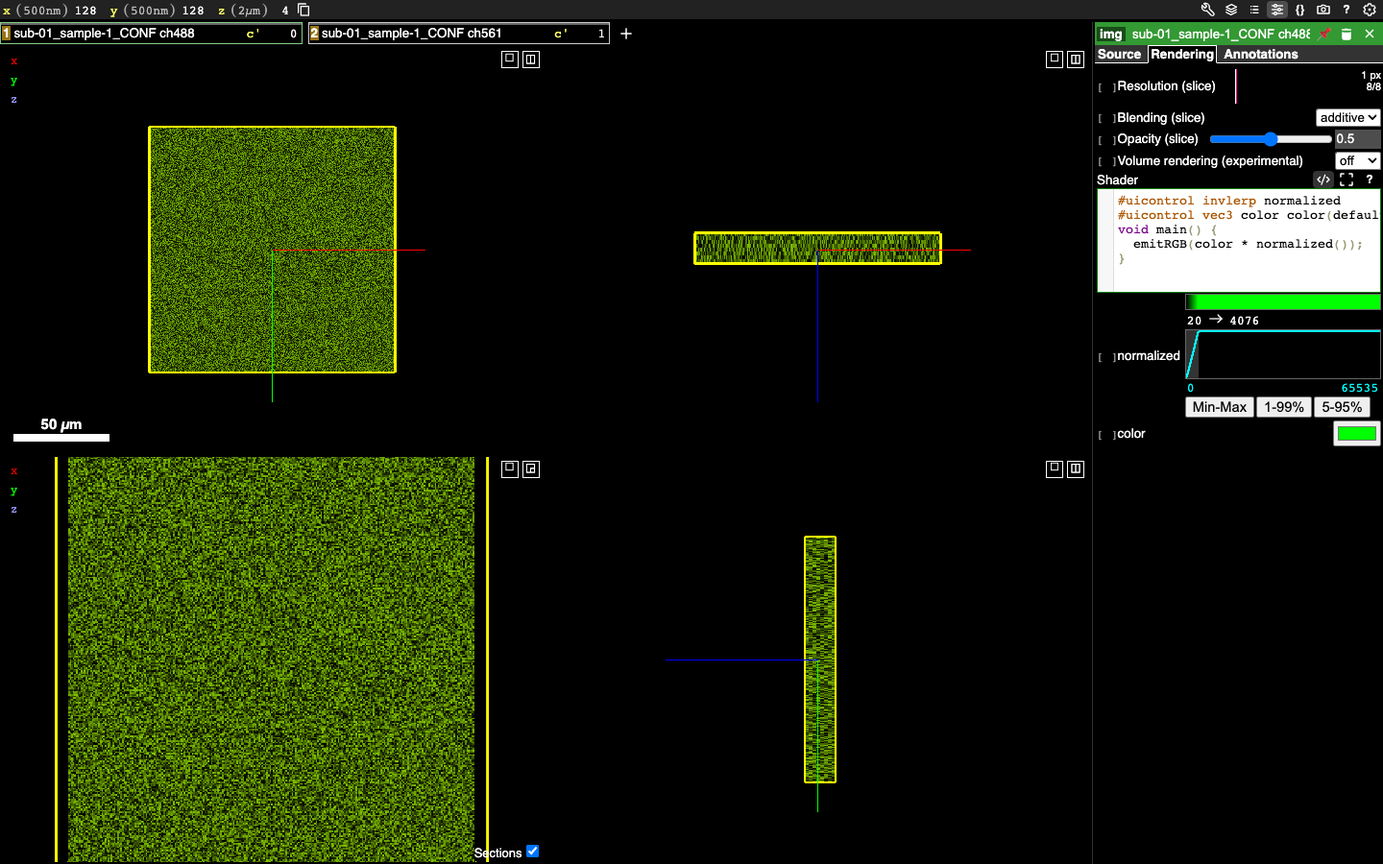
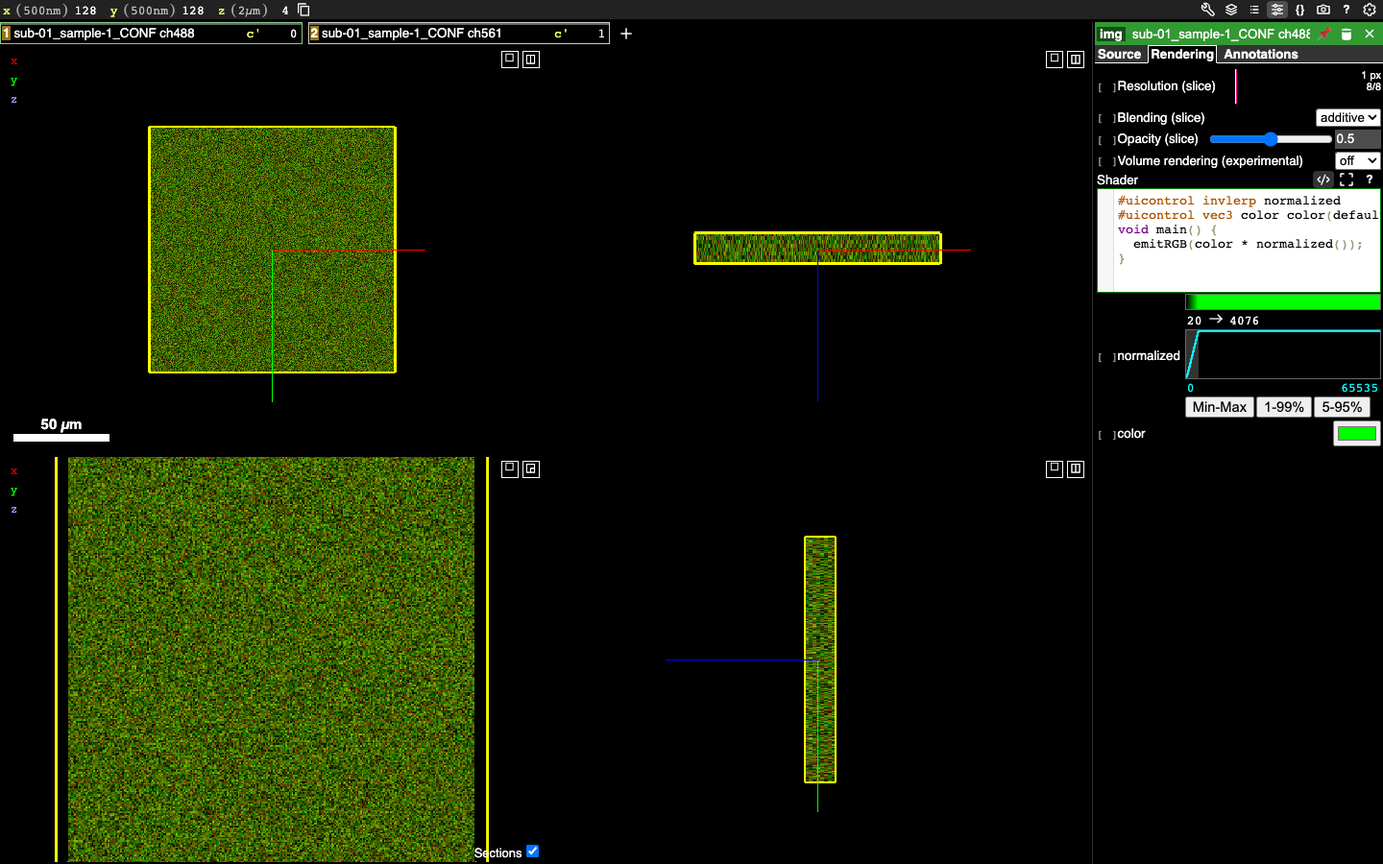
aimport micr: donor from the nearest folder, NaN-aware windows from the level nearest 1024, integer channel positions
Controller rulings on Task 10b: a remote donor is the nearest donor-like folder walking up (the VISoR tile under Moe/ is MN27 again; CMC slice001 contrasts stay one subject via Moe), the file name only when no folder is, never its format/vendor fragments (hdr, EnR, EnRef ...). A reference's display window: finite-value percentiles of the level whose largest x/y is closest to 1024 within the 32 MiB decoded cap; all-NaN/constant channels fall back to finer levels, else the written default. Found in the CMC re-render: Neuroglancer rounds a channel position, so i + 0.5 showed channel i + 1; positions are now integers (the committed micr screenshot is re-shot with both channels).

diff --git a/aimport/src/aimport/server.py b/aimport/src/aimport/server.py
@@ -93,8 +93,10 @@ VIEWER_COOKIE = "aimport_viewer_"  # + a random suffix per server run: cookies i
 VIEWER_CODE_TTL_S = 60
 # /qa/data for a referenced OME-Zarr chunk at a URL: the most bytes one proxied response may carry
 QA_MAX_RESPONSE_BYTES = 64 * 2**20
-# stored bytes read (through the chunk map) from a reference's coarsest level to compute a display window
+# decoded (and stored) bytes of the pyramid level read through the chunk map for a reference's display window
 QA_WINDOW_MAX_BYTES = 32 * 2**20
+# the level a reference's display window is computed from: largest x/y size closest to this, within the cap
+QA_WINDOW_TARGET_SIDE = 1024
 NO_SUCH_CHUNK = "no such chunk"
 _CONTENT_RANGE = re.compile(r"bytes (?:[0-9]+-[0-9]+/(?:[0-9]+|\*)|\*/[0-9]+)")
 # set explicitly: the Python mimetypes table varies by version and platform, and responses are nosniff
@@ -1211,8 +1213,6 @@ def create_app(input_dir: Path, work_dir: Path, keys_dir: Path, token: str, allo
         window stays."""
         import zarr
 
-        from .micr.convert import window_of
-
         root = srv.out / rel
         doc = _read_json(root / "zarr.json")
         attrs = (doc or {}).get("attributes") if doc and "attributes" in doc else _read_json(root / ".zattrs")
@@ -1235,18 +1235,56 @@ def create_app(input_dir: Path, work_dir: Path, keys_dir: Path, token: str, allo
             dtype = zarr.open_array(str(root / str(datasets[0]["path"])), mode="r").dtype
             had = source_windows(entry)
             if channels and all(_default_window(c.get("window"), dtype, had) for c in channels):
-                chunks = chunk_map() or {}
-                coarse = micr_reference.read_array(chunks, srv.out, f"{rel}/{datasets[-1]['path']}",
-                                                   srv.input_dir, QA_WINDOW_MAX_BYTES)
                 axes = [a.get("name") for a in multiscale.get("axes") or []]
-                for i, ch in enumerate(channels):
-                    values = coarse.take(i, axis=axes.index("c")) if "c" in axes else coarse
-                    ch["window"] = window_of(values, dtype)
+                windows = reference_windows(rel, [str(d["path"]) for d in datasets], axes, dtype, len(channels))
+                for ch, window in zip(channels, windows):
+                    if window is not None:  # else the written default stays
+                        ch["window"] = window
         except Exception:  # noqa: BLE001 - the written window is a fine fallback; nothing is reported
             log.info("display window of a reference not computed")
             return attrs  # not cached: the next view tries again
         window_cache[key] = attrs
         return attrs
+
+    def reference_windows(rel: str, paths: list[str], axes: list, dtype: Any, n: int) -> list[dict | None]:
+        """Per channel, the 0.5/99.5 percentiles of the finite values (NaN and ±inf ignored) of the pyramid level
+        whose largest x/y size is closest to QA_WINDOW_TARGET_SIDE among those whose decoded size fits
+        QA_WINDOW_MAX_BYTES (so a coarser one when a finer does not fit); a channel that is all NaN or constant
+        there is taken from the next finer level that fits, else None (the written default stays). Read errors
+        propagate (the caller does not cache them)."""
+        from .micr.convert import window_or_none
+
+        chunks = chunk_map() or {}
+        xy = [axes.index(a) for a in ("x", "y") if a in axes]
+        fits: list[tuple[int, int]] = []  # (level, largest x/y size) of the levels within the cap
+        for i, path in enumerate(paths):
+            meta = (chunks.get("arrays") or {}).get(f"{rel}/{path}")
+            level = srv.out / rel / path
+            doc = _read_json(level / "zarr.json") or _read_json(level / ".zarray")
+            if not isinstance(meta, dict) or not isinstance(doc, dict):
+                continue
+            try:
+                size = micr_reference._decoded_bytes(meta, doc, len(list(micr_reference.chunk_keys(meta))))
+            except (ValueError, KeyError, TypeError):
+                continue
+            if size <= QA_WINDOW_MAX_BYTES:
+                fits.append((i, max((int(meta["shape"][k]) for k in xy), default=0)))
+        if not fits:
+            return [None] * n
+        start = min(fits, key=lambda f: (abs(f[1] - QA_WINDOW_TARGET_SIDE), -f[0]))[0]
+        order = [i for i, _ in sorted(fits, reverse=True) if i <= start]  # the start level, then finer ones
+        read: dict[int, Any] = {}
+        out: list[dict | None] = [None] * n
+        for k in range(n):
+            for i in order:
+                if i not in read:
+                    read[i] = micr_reference.read_array(chunks, srv.out, f"{rel}/{paths[i]}", srv.input_dir,
+                                                        QA_WINDOW_MAX_BYTES)
+                values = read[i].take(k, axis=axes.index("c")) if "c" in axes else read[i]
+                out[k] = window_or_none(values, dtype)
+                if out[k] is not None:
+                    break
+        return out
 
     def source_windows(entry: Any) -> bool | None:
         """Whether a reference entry's source had an omero window per channel (its scan record), or None."""

diff --git a/aimport/tests/test_micr_plan.py b/aimport/tests/test_micr_plan.py
@@ -344,12 +344,9 @@ def test_remote_donor_from_name_tail_psoct(url):
     "https://s3.us-east-2.amazonaws.com/apex-connects/CMC/Raw/Moe/tract-tracing/MN27_FH_S100_250215_visor_488/"
     "visor_488_Pos0/visor_488_0_0.tif",
 ])
-def test_remote_donor_from_first_folder(url):
-    """The first donor-like folder from the top wins: the tract-tracing acquisition MN27_... lies under
-    the donor folder Moe."""
-    assert micr_module.remote_donor(micr_module.remote_key(url)) == "Moe"
-    assert micr_module.remote_donor("CMC/Raw/tract-tracing/MN27_FH_S100_250215_visor_488/visor_488_Pos0/"
-                                    "visor_488_0_0.tif") == "MN27"
+def test_remote_donor_from_nearest_folder(url):
+    """The nearest donor-like folder wins: MN27_... (under Moe/)."""
+    assert micr_module.remote_donor(micr_module.remote_key(url)) == "MN27"
 
 
 _ENFACE_CODES = {"Reflectivity": "EnRef", "Retardance": "EnR"}  # the real CMC key names (DATASETS.md)
@@ -361,16 +358,22 @@ def ENFACE(contrast: str, n: int) -> str:  # noqa: N802
 
 
 def test_remote_donor_walks_every_folder():
-    """Five folders up from the file: the donor folder Moe is found (it was 3 at most) before the file
-    name's contrast codes (EnR, hdr); the top folder (the project) and the bucket never are."""
+    """Folders first, nearest to the file walking up, every folder up to (not including) the top one: the donor
+    folder Moe is found six levels up (it was 3 at most). The file name is used only when no folder is
+    donor-like, and its format/vendor fragments (hdr, EnR, EnRef ...) never are donors."""
     for contrast in ("Reflectivity", "Retardance"):
         assert micr_module.remote_donor(micr_module.remote_key(ENFACE(contrast, 1))) == "Moe"
-    assert micr_module.remote_donor("CMC/Registration/Slice_001_EnR_hdr.nii.gz") == "EnR"  # no folder: the name
+    for name in ("Slice_001_EnR_hdr.nii.gz", "Slice_001_EnRef_hdr.nii.gz", "Slice_004_EnCr_hdr.nii",
+                 "Slice_001_EnAO_hdr.nii.gz"):
+        assert micr_module.remote_donor(f"CMC/Registration/{name}") is None, name
+    assert micr_module.remote_donor("CMC/Registration/H17_Slice_001_EnR_hdr.nii.gz") == "H17"
     path_style = "https://s3.us-east-2.amazonaws.com/apex-connects/CMC/Derivatives/stitched/data/image.ome.zarr"
     assert micr_module.remote_key(path_style) == "CMC/Derivatives/stitched/data/image.ome.zarr"
     assert micr_module.remote_donor(micr_module.remote_key(path_style)) is None
-    assert micr_module.remote_donor("CMC/Raw/Moe/Registration/Enface/data/images/MN27_x/tile_0.tif") == "Moe"  # the first wins
+    assert micr_module.remote_donor("CMC/Raw/Moe/Registration/Enface/data/images/MN27_x/tile_0.tif") == "MN27"
+    assert micr_module.remote_donor("CMC/Raw/Moe/Registration/Enface/data/images/tile_0.tif") == "Moe"
     assert micr_module.remote_donor("Moe/image.tif") is None  # the top folder alone
+    assert micr_module.remote_donor("axonal_connectomics/deskewed/H17_PO10_S5_20250417/exaSPIM.zarr/Pos0") == "H17"
 
 
 def _remote_plan(tmp_path, key, schema, monkeypatch, urls):
@@ -412,10 +415,10 @@ def test_remote_records_never_take_bucket_or_project_as_donor(tmp_path, key, sch
     found = [micr_module.Found(u, f, u) for u, f in zip(urls, families)]
     records = micr_module.scan_records(tmp_path, claim, found, lambda msg: None)
     donors = [r["facts"]["donor"] for r in records]
-    assert sorted(d for d in donors if d) == ["Moe", "Moe"] and donors.count(None) == 1  # MN27_ is under Moe/
+    assert sorted(d for d in donors if d) == ["MN27", "Moe"] and donors.count(None) == 1
     mp = micr_module.plan_entries(records, key, set(), schema, "bids")
-    assert "micr:id=Moe" in set(key.subjects)
-    assert not [o for o in key.subjects if o.startswith("micr:id=") and o != "micr:id=Moe"]
+    assert {"micr:id=Moe", "micr:id=MN27"} <= set(key.subjects)
+    assert not [o for o in key.subjects if o.startswith("micr:id=") and o not in ("micr:id=Moe", "micr:id=MN27")]
     assert any(w.startswith("microscopy: no donor code was found for 1 ") for w in mp.warnings)
     text = json.dumps([asdict(e) for e in mp.entries] + mp.warnings)
     assert "apex" not in text and "amazonaws" not in text and "CMC" not in text

diff --git a/aimport/tests/test_viewer_routes.py b/aimport/tests/test_viewer_routes.py
@@ -1014,3 +1014,55 @@ def test_real_omero_window_kept_by_the_viewer(tmp_path, monkeypatch):
         assert rec["info"]["reference_layout"]["source_windows"] is True
         ref = next(e for e in _entries(c).values() if e["write_mode"] == "reference")
         assert _ref_window(viewer_client(c), ref["id"]) == (0.0, 1.0)
+
+
+def test_reference_window_level_and_nan(tmp_path, monkeypatch):
+    """The window comes from the level whose largest x/y is closest to the target within the cap, NaN ignored;
+    a channel that is all NaN there comes from the next finer level that fits, else keeps the written default."""
+    import numpy as np
+    import zarr
+
+    from aimport.micr.convert import window_of
+
+    inp = tmp_path / "in"
+    store = ome_zarr(inp / STORE, "0.5", levels=4, dtype="float32")  # x/y 64, 32, 16, 8
+    level1 = zarr.open_array(str(store / "1"), mode="r+")
+    level1[1] = np.nan  # channel 1 is all NaN at level 1
+    level1[0, 0, 0, :4] = [np.inf, -np.inf, np.nan, np.nan]
+    monkeypatch.setattr(server, "QA_WINDOW_TARGET_SIDE", 30)  # level 1 (32) is the closest
+    real = server.micr_reference.read_array
+    reads = []
+
+    def spy(chunks, bids, array_rel, *a, **k):
+        reads.append(array_rel.rsplit("/", 1)[1])
+        return real(chunks, bids, array_rel, *a, **k)
+
+    monkeypatch.setattr(server.micr_reference, "read_array", spy)
+    with _executed_micr(inp, tmp_path, monkeypatch) as c:
+        browser = viewer_client(c)
+        ref = next(e for e in _entries(c).values() if e["write_mode"] == "reference")
+
+        def windows():
+            loc = browser.get(f"/viewer/entry/{ref['id']}", follow_redirects=False).headers["location"]
+            return [tuple(layer["shaderControls"]["normalized"]["range"]) for layer in decoded_state(loc)["layers"]]
+
+        w = windows()
+        want0 = window_of(zarr.open_array(str(store / "1"), mode="r")[0], "float32")
+        want1 = window_of(zarr.open_array(str(store / "0"), mode="r")[1], "float32")
+        assert reads == ["1", "0"]
+        assert w[0] == pytest.approx((want0["start"], want0["end"]))
+        assert w[1] == pytest.approx((want1["start"], want1["end"]))
+        # level 0 past the cap: channel 1 keeps the written default (0..1); level 1 is still used for channel 0
+        monkeypatch.setattr(server, "QA_WINDOW_MAX_BYTES", 100_000)
+        state = c.app.state.server.work / server.OUTPUT_STATE
+        later = state.stat().st_mtime_ns + 2_000_000_000
+        os.utime(state, ns=(later, later))
+        reads.clear()
+        w = windows()
+        assert reads == ["1"] and w[1] == (0.0, 1.0) and w[0] == pytest.approx((want0["start"], want0["end"]))
+        # the target past every level that fits: the closest that fits (a coarser one) is used
+        monkeypatch.setattr(server, "QA_WINDOW_TARGET_SIDE", 1024)
+        os.utime(state, ns=(later + 2_000_000_000,) * 2)
+        reads.clear()
+        windows()
+        assert reads[0] == "1"

diff --git a/aimport/src/aimport/micr/module.py b/aimport/src/aimport/micr/module.py
@@ -231,22 +231,40 @@ def remote_key(url: str) -> str:
     return path
 
 
+# File-name fragments that are never a donor: format and vendor words (a header suffix, an extension word) and
+# the PS-OCT en-face contrast abbreviations En<X> (EnR, EnRef, EnCr, EnAO ...).
+_NAME_NOT_DONOR = frozenset({"hdr", "img", "nii", "gz", "tif", "tiff", "zarr", "ome", "dat", "mat", "raw", "bin",
+                             "h5", "hdf5", "json", "txt", "log", "png", "jpg", "jpeg", "bmp", "avi", "lsm",
+                             "oib", "oif", "ims", "czi", "nd2", "lif", "svs", "vsi", "ndpi", "scn", "mrxs"})
+_EN_CONTRAST = re.compile(r"En[A-Z][A-Za-z]{0,3}")
+
+
+def _name_donor(name: str) -> str | None:
+    """The donor of a file or store name (names.facts), its format/vendor fragments removed first."""
+    stem = names._EXT.sub("", name)
+    keep = [t for t in names._tokens(stem)
+            if t.lower() not in _NAME_NOT_DONOR and not _EN_CONTRAST.fullmatch(t)]
+    return names.facts("_".join(keep)).donor if keep else None
+
+
 def remote_donor(path: str) -> str | None:
-    """The donor of a remote source (``path``: its object key, ``remote_key``): the first donor-like
-    segment walking down every folder from the top (``CMC/Derivatives/Moe/PS-OCT/...`` gives Moe), else
-    the file or store name; names.facts applied to each segment alone. The top folder under the
-    bucket is a project (``CMC/...``), never a donor. Folders come first because file names carry
-    contrast codes that look like donors (``Slice_001_EnR_hdr``: EnR, hdr)."""
+    """The donor of a remote source (``path``: its object key, ``remote_key``): the nearest donor-like folder,
+    walking up from the file (``CMC/Raw/Moe/tract-tracing/MN27_.../Pos0/x.tif`` gives MN27,
+    ``CMC/Derivatives/Moe/PS-OCT/Enface/Registration/Retardance/x.nii.gz`` gives Moe); the file or store name
+    only when no folder is donor-like, and never its format/vendor fragments (``hdr``, ``EnR``). The top folder
+    under the bucket is a project (``CMC/...``), never a donor. names.facts is applied to each segment alone."""
     parts = [p for p in path.split("/") if p]
     if not parts:
         return None
-    for seg in [*parts[1:-1], parts[-1]]:
+    for seg in reversed(parts[1:-1]):
         if seg.startswith("sub-") and len(seg) > 4:
             return seg[4:]
         donor = names.facts(seg).donor
         if donor:
             return donor
-    return None
+    if parts[-1].startswith("sub-") and len(parts[-1]) > 4:
+        return parts[-1][4:].split("_")[0]
+    return _name_donor(parts[-1])
 
 
 def _remote_group(rec: dict) -> str:

diff --git a/aimport/tests/test_viewer.py b/aimport/tests/test_viewer.py
@@ -110,7 +110,7 @@ def test_zarr_layer_channels_additive(version, codec):
     for i, layer in enumerate(layers):
         assert layer["type"] == "image" and layer["source"] == url + codec
         assert layer["blend"] == "additive"
-        assert layer["localDimensions"] == {"c'": [1, ""]} and layer["localPosition"] == [i + 0.5]
+        assert layer["localDimensions"] == {"c'": [1, ""]} and layer["localPosition"] == [i]  # integer: Neuroglancer rounds
     assert layers[0]["shaderControls"]["normalized"]["range"] == [100.0, 900.0]
     assert layers[1]["shaderControls"]["normalized"]["range"] == [50.0, 400.0]
     assert layers[0]["shaderControls"]["color"] == "#00ff00"  # 520 nm emission: the omero colour
@@ -199,7 +199,7 @@ def test_multichannel_oct_store_split_into_panels():
     assert len(state["layers"]) == 2 and all("blend" not in layer for layer in state["layers"])
     assert all("emitGrayscale" in layer["shader"] for layer in state["layers"])
     assert [p["layers"] for p in state["layout"]["children"]] == [[layer["name"]] for layer in state["layers"]]
-    assert [layer["localPosition"] for layer in state["layers"]] == [[0.5], [1.5]]
+    assert [layer["localPosition"] for layer in state["layers"]] == [[0], [1]]
 
 
 def test_view_fits_the_plane():

diff --git a/aimport/src/aimport/micr/convert.py b/aimport/src/aimport/micr/convert.py
@@ -432,6 +432,16 @@ def window_of(values: Any, dtype: Any) -> dict[str, float]:
     return {"min": mn, "max": mx, "start": lo, "end": hi if hi > lo else lo + 1.0}
 
 
+def window_or_none(values: Any, dtype: Any) -> dict[str, float] | None:
+    """window_of when the values hold at least two different finite numbers (NaN and ±inf ignored); None for
+    an all-NaN or constant channel (the caller tries another level, or keeps its default)."""
+    sample = np.asarray(values, dtype=np.float64).ravel()
+    sample = sample[np.isfinite(sample)]
+    if sample.size == 0 or sample.min() == sample.max():
+        return None
+    return window_of(sample, dtype)
+
+
 # --- tile groups --------------------------------------------------------------------------------
 
 

diff --git a/aimport/src/aimport/viewer.py b/aimport/src/aimport/viewer.py
@@ -128,7 +128,9 @@ def zarr_layer(name: str, url: str, info: dict, version: str, blend: bool = True
             layer["blend"] = "additive"
         if has_c:
             layer["localDimensions"] = {"c'": [1, ""]}
-            layer["localPosition"] = [i + 0.5]
+            # an integer: Neuroglancer rounds a channel position, so i + 0.5 would show channel i + 1 (checked in
+            # Chromium on the 4-channel CMC PS-OCT store: i + 0.5 drew the next contrast, the last one blank)
+            layer["localPosition"] = [i]
         if controls:
             layer["shaderControls"] = controls
         layers.append(layer)

diff --git a/aimport/README.md b/aimport/README.md
@@ -211,7 +211,10 @@ the written omero window. The PS-OCT contrasts of one sample (reflectivity, reta
 together, each in its own xy panel and never blended; so do the channels of a PS-OCT store whose channels are the
 contrasts. A reference dataset ("(read from source)") was never copied: its metadata is the one aimport wrote, and
 each chunk is read from its source through the chunk map (below). When its source had no display window, the
-viewer uses the 0.5/99.5 percentiles of its coarsest level, read through the chunk map (at most 32 MiB).
+viewer uses the 0.5/99.5 percentiles of the finite values (NaN and ±inf ignored) of the pyramid level whose largest
+x/y size is closest to 1024 among those whose decoded size fits 32 MiB, read through the chunk map; a channel that
+is all NaN or constant there comes from the next finer level that fits, else keeps the written default. Each
+channel is selected by its integer index (Neuroglancer rounds a channel position).
 
 ![A converted microscopy image (the planted test OME-TIFF) in the viewer](docs/qa-viewer-micr.png)
 
@@ -373,7 +376,7 @@ image) are better dropped in review; the validation result tells you which.
 - Microscopy (`micr`) packages, locked for Python 3.11 (the image): bioio 3.7.1, bioio-czi 4.1.0 (aicspylibczi), bioio-nd2 2.5.0, bioio-lif 2.0.1, tifffile 2026.3.3, ome-types 0.7.0, zarr 3.1.6, fsspec[http] 2026.9.0, dask[array] 2026.11.0, ngff-zarr 0.53.0, scipy 1.17.1, h5py 3.16.0. All have wheels for manylinux x86_64 and macOS arm64.
 - OME-Zarr output is NGFF **0.5** (Zarr v3, sharded) by default; set `AIMPORT_NGFF_VERSION=0.4` for Zarr v2. The validator ruling behind the default (Task 1, `tests/test_micr_validator.py`): `@bids/validator` 2.4.1 on schema 1.11.2 accepts NGFF 0.5, NGFF 0.4 and metadata-only stores (chunks deleted). It treats a `.ome.zarr/` directory as opaque: it rejects only an empty directory (`EMPTY_FILE`) and never reads `zarr.json`/`.zattrs` (a corrupt `zarr.json` passes, and sidecar `PixelSize` is not compared with the NGFF scale), so aimport checks its own OME-Zarr metadata.
 - Remote microscopy sources (`micr/remote.py`): only `https://` and `s3://` URLs (`s3://b/k` is read as `https://b.s3.amazonaws.com/k`), anonymous, with no user information, query, IP-literal or `localhost` host; redirects are followed only to the same origin or an `https` `*.amazonaws.com` host. Discovery probes `<url>/zarr.json`, then `<url>/.zattrs`, then the extension or `Content-Type`; only OME-Zarr, NIfTI and TIFF are accepted. Every read is an HTTP range request counted by a `ByteCounter` (which can cap it): an OME-Zarr store is read through zarr (metadata and the chunks asked for), a file through 64 KiB blocks, and nothing is downloaded whole. Counting the pages of a remote multi-page TIFF walks its IFD chain (one range read per page).
-- Microscopy plan entries (`micr/module.py`): the scan writes `work/micr/records.json` (local only, like `claim.json`: paths, URLs, name facts and image facts, acquisition date included), one record per image or tile group (VISoR and numbered tiles of one folder share one, raw PS-OCT `.dat` tiles one per folder). Plan entries carry only generated values: `subject_idx`/`series_idx` from 1,000,000 up, subject IDs from the pseudonym key (original `micr:id=<donor>`), samples `slice<NNN>`, the input's `sample-` label or `1, 2, ...`, `acq-<PS-OCT contrast>`, `stain-ch<nm>`, `chunk-<position or tile>` when a sample has several, a suffix from names (`OCT`, `SPIM`) or the OME acquisition mode, and a description built from the image facts. `write_mode` is `reference` for OME-Zarr (no copy, `output_bytes` 0) and `convert` otherwise (`output_bytes` = level 0 x 1.34). A remote source's donor is the first donor-like folder walking down from the top of its key (`CMC/Derivatives/Moe/PS-OCT/...` gives `Moe`), else its file or store name (file names carry contrast codes such as `EnR`), never the bucket or the top folder under it (a project); remote sources without a donor share a subject when they sit under the same parent folder (contrast folders such as `Reflectivity/` skipped) with the same slice. A remote VISoR tile is planned from its first page and `frames_per_file`. Module planners run after the MRI subjects took their IDs, so MRI subject IDs and session labels are those of an MRI-only plan. Microscopy entries stay `micr` (another datatype makes them unknown, as does `micr` on an MRI entry); `sample_type` (default `tissue`) is editable within the BIDS enum. A microscopy-only scan has no DICOM-header warning; a supplementary folder (such as `sourcedata/`) holding claimed input is left out with a warning giving the count.
+- Microscopy plan entries (`micr/module.py`): the scan writes `work/micr/records.json` (local only, like `claim.json`: paths, URLs, name facts and image facts, acquisition date included), one record per image or tile group (VISoR and numbered tiles of one folder share one, raw PS-OCT `.dat` tiles one per folder). Plan entries carry only generated values: `subject_idx`/`series_idx` from 1,000,000 up, subject IDs from the pseudonym key (original `micr:id=<donor>`), samples `slice<NNN>`, the input's `sample-` label or `1, 2, ...`, `acq-<PS-OCT contrast>`, `stain-ch<nm>`, `chunk-<position or tile>` when a sample has several, a suffix from names (`OCT`, `SPIM`) or the OME acquisition mode, and a description built from the image facts. `write_mode` is `reference` for OME-Zarr (no copy, `output_bytes` 0) and `convert` otherwise (`output_bytes` = level 0 x 1.34). A remote source's donor is the nearest donor-like folder walking up from the file (`CMC/Raw/Moe/tract-tracing/MN27_.../` gives `MN27`, `CMC/Derivatives/Moe/PS-OCT/Enface/...` gives `Moe`), else its file or store name without its format/vendor fragments (`hdr`, the en-face codes `EnR`, `EnRef`, ...), never the bucket or the top folder under it (a project); remote sources without a donor share a subject when they sit under the same parent folder (contrast folders such as `Reflectivity/` skipped) with the same slice. A remote VISoR tile is planned from its first page and `frames_per_file`. Module planners run after the MRI subjects took their IDs, so MRI subject IDs and session labels are those of an MRI-only plan. Microscopy entries stay `micr` (another datatype makes them unknown, as does `micr` on an MRI entry); `sample_type` (default `tissue`) is editable within the BIDS enum. A microscopy-only scan has no DICOM-header warning; a supplementary folder (such as `sourcedata/`) holding claimed input is left out with a warning giving the count.
 - Microscopy conversion (`micr/convert.py`, `micr/metadata.py`): each included `convert` entry becomes `sub-<s>[/ses-<s>]/micr/<name>.ome.zarr` plus its sidecar. Pixels are read block by block (a block never larger than `MAX_BLOCK_BYTES`, 256 MiB, read at call time) and a whole array is never in memory. Level 0 is written in slabs along the slowest spatial axis, full extent on the others and one shard deep, in order, so each source block (strip, plane stack) is read once (the last one is kept for the next slab); when such a slab does not fit half the block limit, the shard gets thinner along that axis (chunks down to an eighth of the default) if that makes it fit, else the slabs are as deep as fits and cut through shards, which zarr completes by read-merge-rewrite one shard at a time; only a single slice larger than half the limit falls back to shard-by-shard writing. Remote files are read with a 4 KiB read-ahead while converting. Level k of the pyramid is the 2x box mean of level k-1 as written (exact integer arithmetic, majority vote for booleans; y and x every level, z only while its pixels are not coarser than the plane), down to the level whose largest in-plane (y, x) axis is at most 256 (a 1024² plane gets 3 levels), or 8 levels. ngff-zarr creates each level's array (metadata only); chunks are `(1, 128, 128, 128)` (3D) or `(1, 1024, 1024)` (2D) with 4 chunks per spatial axis per shard (0.5), fewer per shard (z first) when a shard would exceed half the block limit. The group metadata is then rebuilt from the allowlisted image facts only (`ngff_attrs`: axes, scale per level, an `omero` channel `ch<nm>`/`ch<i>` per channel with the coarsest level's 0.5/99.5 percentile window; no name, OME-XML or library metadata), and the array attributes are emptied. **Pixel size is never invented, and its unit never assumed:** plan entries carry `pixel_size` (x, y[, z]) and `pixel_size_units` (`mm`, `um`, `nm`) from the source; when the source lacks any spatial axis the entry is `unknown` ("pixel size unknown: set it in the plan") until the reviewer sets both, and when the source has sizes but no unit (NGFF axes without a `unit`, like the CMC PS-OCT store) it is `unknown` ("pixel size unit unknown: set it in the plan") until the reviewer sets `pixel_size_units` (editable on microscopy entries only, positive finite numbers, one per spatial axis), and the writer refuses an entry without them. The sidecar holds that `PixelSize`/`PixelSizeUnits`, `Magnification`, `NumericalAperture` and `Immersion` when known, and for `OCT` `OCTContrast`, `OCTRetardanceKind` and `OCTOpticAxisConvention` (`n/a`). Several files that are tiles of one plane (not VISoR frame stacks) are planned `unsupported` ("tile mosaic: stitch first ..."); VISoR tiles of one position are stacked along z. After each image aimport re-opens it (zarr and ngff-zarr, NGFF structural rules) and checks the group metadata for the configured version, the axes and units, level 0's scale against the sidecar `PixelSize`, each level's shape and dtype, and the omero channel count; a failure fails the execute with a generic message. The writer adds a participants row (`n/a` age and sex; MRI demographics win; the `sex` description says when it is not from DICOM), `samples.tsv` (`sample_id`, `participant_id`, `sample_type`; merged with a supplied one by participant and sample, supplied values winning) and `scans.tsv` rows whose `acq_time` is the image's acquisition date (else the date in its name) shifted by the subject's offset, date only (`T00:00:00`, described in `scans.json` as "date only for microscopy images; time not recorded"). A BIDS-named input's own suffix and entity keys (`sub-01_sample-A_CONF`) are vocabulary, not identifying terms; its `sample-`/`sub-`/`ses-` labels are used only when they are not terms. A reference (below) is checked the same way, from its metadata only.
 - Microscopy reference datasets (`micr/reference.py`): an OME-Zarr input (`write_mode` `reference`) is never copied or converted. Under `bids/` aimport writes only new metadata: the group attributes rebuilt by `ngff_attrs` in the **source's** Zarr format (v3 → NGFF 0.5, v2 → 0.4; the chunks are not re-encoded), with the plan's pixel size, each level's factor from its size (the source's scale when the size agrees with it, else level 0's size over the level's, else a power of two), and the source's omero windows when they are four numbers per channel (else the dtype's range); and per level a `zarr.json` or `.zarray` rebuilt from the source array's structure (shape, data type, chunk grid, key encoding or separator, codecs or compressor and filters, fill value, order), with `attributes` dropped and dimension names set to the image axes. Arrays are stored at `0`, `1`, ...; no chunk is written or read (the source's chunks may be absent), and the source's `OME/` folder, consolidated metadata and array attributes are not written. Where the chunks are is in the **chunk map** `work/output/bids.chunks.json` (never under `bids/`; local only, like `records.json`, and never uploaded): `{"version": 1, "arrays": {"<array dir under bids/>": {"source": {"input": "<input-relative dir>"} | {"url": "<https URL>"}, "zarr_format", "shape", "chunk_grid" (the stored object: shard or chunk), "separator", "codec_bytes_hint" (that object's decoded bytes), ["key_encoding": "v2"]}}}`. A chunk key under an array is the same in the source and the output; `chunk_keys` lists them (a missing source object is the fill value), and `resolve(map, out_rel, input_dir)` (shared by the engine and the viewer) maps an output chunk path to its source, refusing a path not strictly inside a mapped array, a key that is not one of that array's chunk keys, an input source outside the input folder or through a symlink, and a URL `normalize_url` refuses. `output-state.json` gains `"chunk_map": "output/bids.chunks.json"` and `/status` shows that path only; a new scan and a failed execute remove the map. The scan records each OME-Zarr's layout facts (axis identity, each array's Zarr format, chunk grid, key encoding, separator and storage transformers, dataset paths, and whether the store or an array dir is reached through a symlink), and one predicate (`layout_refusal`) plans a store that cannot be referenced as is `unsupported` with its reason ("OME-Zarr layout not referenceable: axes need reordering", ...); the writer applies it again. After writing, every string in the written metadata documents (codec and filter configurations and string fill values included) is compared with the run's terms (casefold, alphanumerics only), and a match fails the execute with a generic message. With the source's own scale factors that agree with its sizes, the self-check also requires each level's scale to be the plan's pixel size times that factor.
 - QA viewer client: a standalone build of the `neuroglancer` npm package **2.41.2** (`viewer-client/`: vite, as in

diff --git a/aimport/tests/DATASETS.md b/aimport/tests/DATASETS.md
@@ -95,7 +95,10 @@ window of 0..1 per channel. `test_micr_input_executes_with_uint16_references` ex
 VISoR `acqinfo_metadata.json` saying `dtype: "uint16"`) through the server. The remote donor tests use the real
 CMC key names (listed anonymously, 2026-11-24) without reading them; `test_remote_without_donor_grouped_by_folder_and_slice`
 uses made-up `lab.s3.amazonaws.com` URLs, never fetched. `docs/qa-viewer-index-micr.png` is the restyled
-`/viewer/` index of a real engine run over synthetic input only (the `micr_run` inputs). All synthetic,
+`/viewer/` index of a real engine run over synthetic input only (the `micr_run` inputs); `docs/qa-viewer-micr.png`
+was re-shot from the same run after the channel-position fix (both channels now drawn).
+`test_reference_window_level_and_nan`: an `ome_zarr` float32 0.5 store with 4 levels, channel 1 of level 1 set to
+NaN and four ±inf/NaN values planted in channel 0. All synthetic,
 generated at test time.
 
 ### CMC public bucket `apex-connects` (current)
